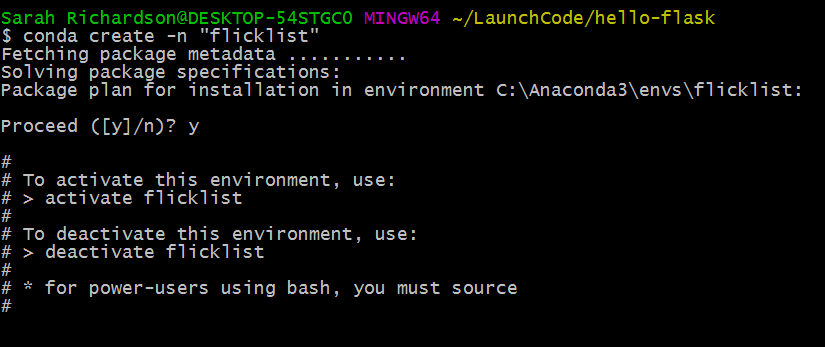
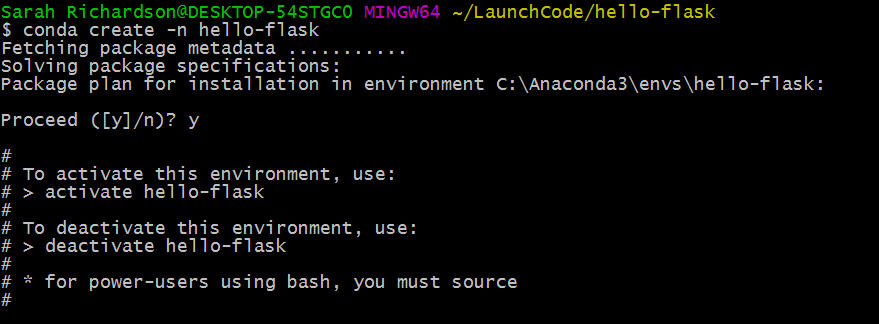
update images for hello-flask with diff venv name

Changed region(s): [[0.0, 0.0, 0.9697, 0.3086], [0.0, 0.4321, 0.6364, 0.9568], [0.0, 0.3395, 0.2424, 0.4012]]

diff --git a/tutorials/hello-flask/README.md b/tutorials/hello-flask/README.md
@@ -30,21 +30,21 @@ host all our libraries within it.
 Here, we're using the term "virtual environment" loosely. Rather than starting a full virtual machine, we're really just changing the PATH environment variable, which controls the order of directories that bash searches for programs.
 
 ```
-(flask) $ echo $PATH
+(hello-flask) $ echo $PATH
 /home/dm/hello-flask/flask/bin:/home/dm/.rbenv/plugins/ruby-build/bin:/home/dm/.rbenv/shims:/home/dm/.rbenv/bin:/home/dm/bin:/home/dm/.local/bin:/usr/local/sbin:/usr/local/bin:/usr/sbin:/usr/bin:/sbin:/bin:/usr/games:/usr/local/games:/snap/bin:/usr/lib/jvm/java-8-oracle/bin:/usr/lib/jvm/java-8-oracle/db/bin:/usr/lib/jvm/java-8-oracle/jre/bin
 ```
 </aside>
 
 To create a virtual environment with Conda, we'll do the following:
 
-1. In your hello-flask directory, create a virtual environment named `flicklist` like so:  
-`conda create -n "flicklist"`
+1. In your hello-flask directory, create a virtual environment named `hello-flask` like so:  
+`conda create -n hello-flask`
 
 ![Create virtual environment](images/create-venv.png)
 
-2. Activate the virtual environment using `source activate flicklist`
+2. Activate the virtual environment using `source activate hello-flask`
 
-![Activate virtual environment](images/activate-flicklist.png)
+![Activate virtual environment](images/activate-venv.png)
 
 3. Install flask into your virtual environment with the command `conda install flask`
 
